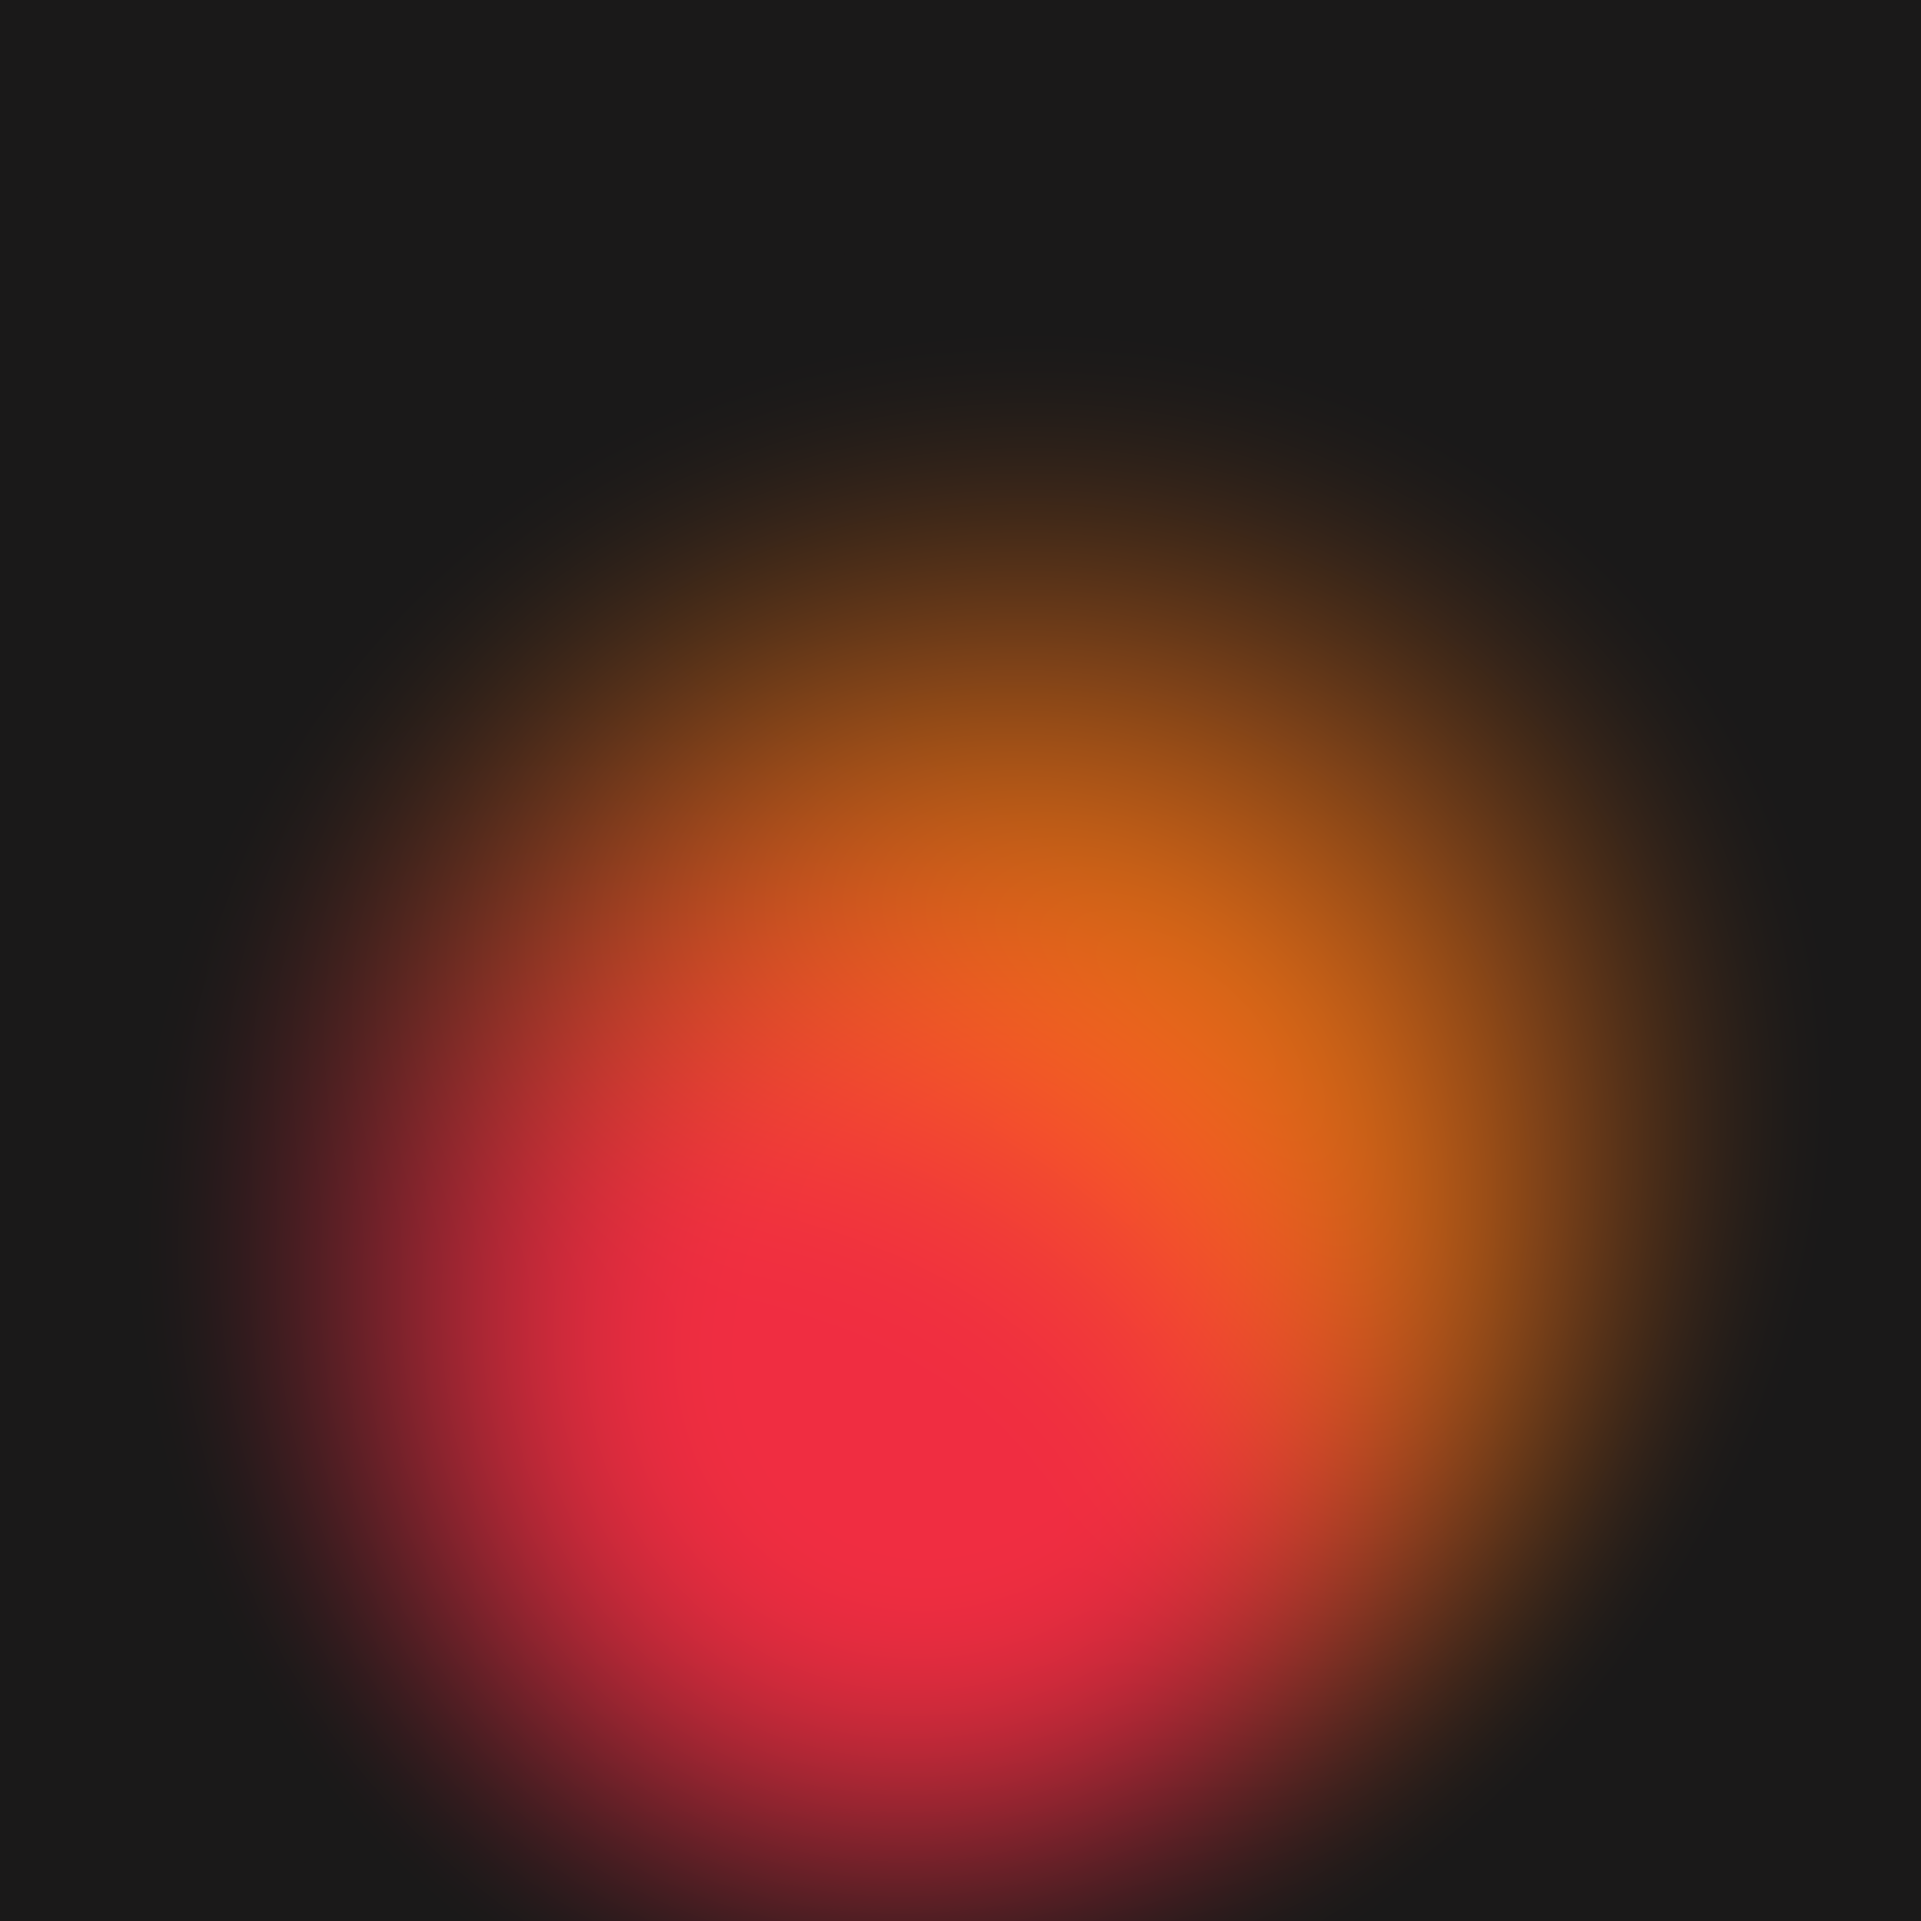
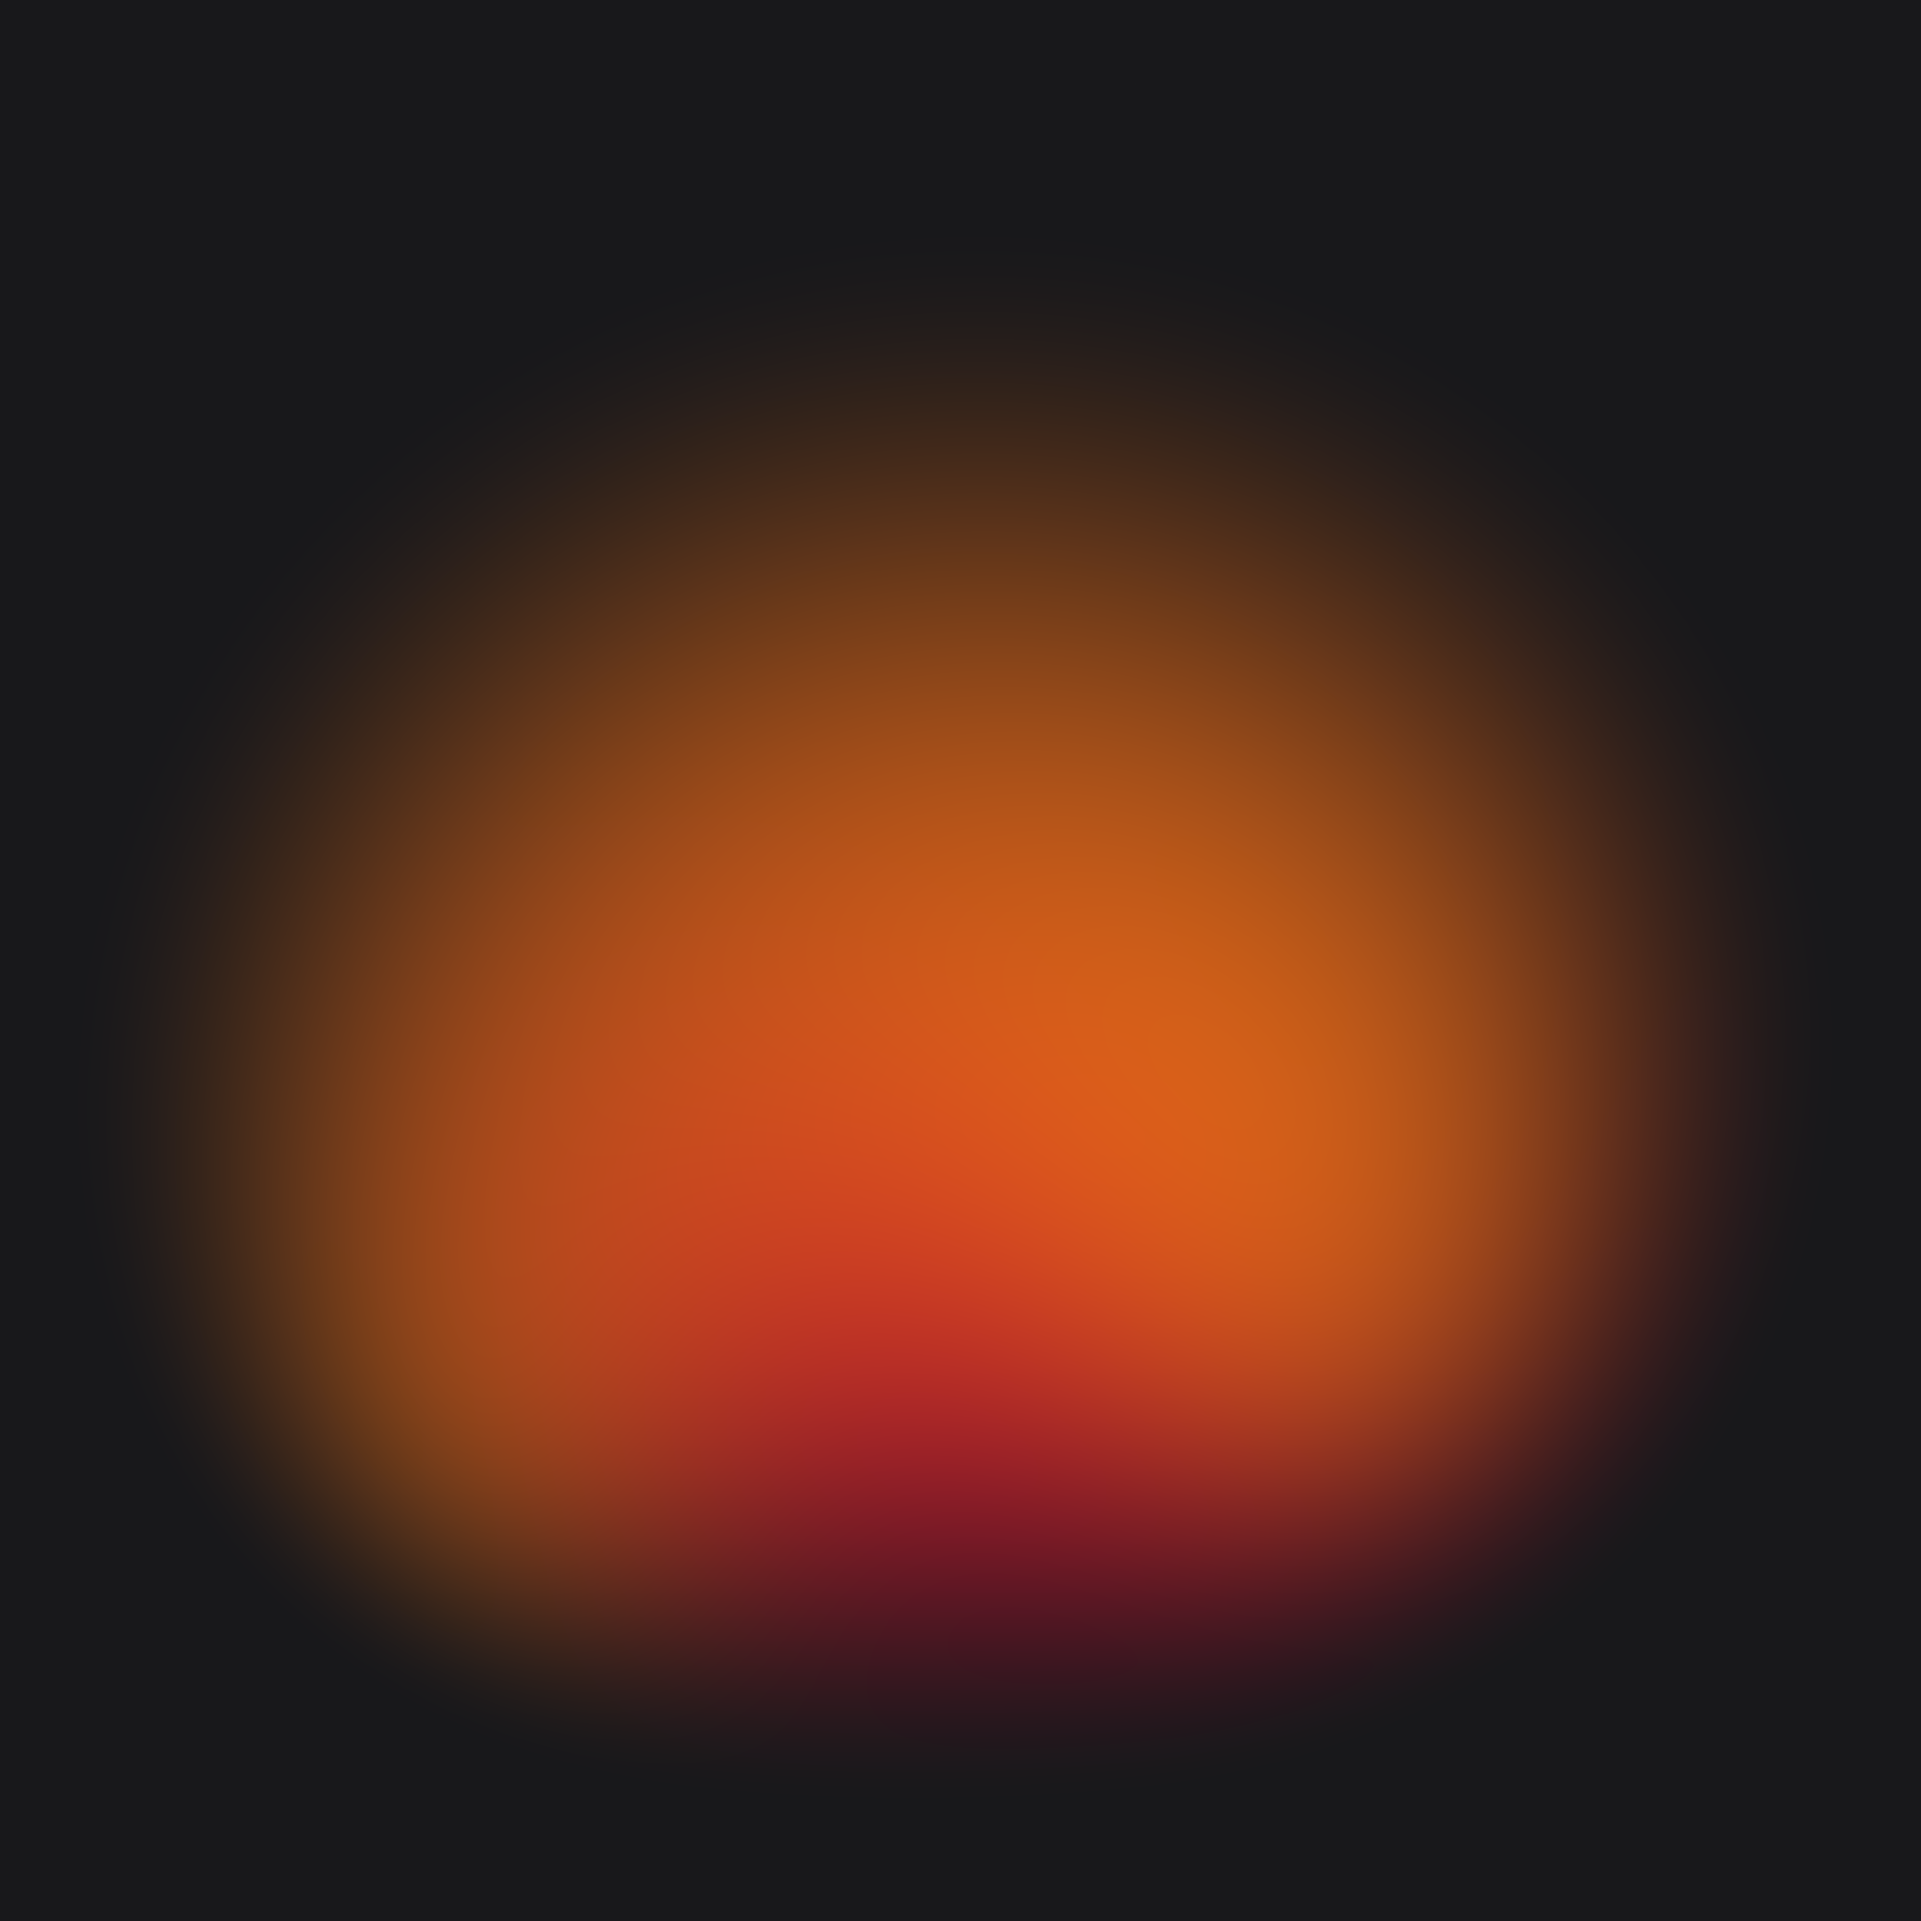
Refactor image URLs and update dark mode styling

Changed region(s): [[0.124, 0.248, 0.837, 1.0]]

diff --git a/src/components/landing/landing-layout.tsx b/src/components/landing/landing-layout.tsx
@@ -4,8 +4,10 @@ import { Black_Ops_One, Inter } from "next/font/google";
 import Image from "next/image";
 import Link from "next/link";
 import Footer from "./footer";
-import Gradient from "@/assets/images/dark-gradient.png";
+import LightGradient from "@/assets/images/light-gradient.png";
+import DarkGradient from "@/assets/images/dark-gradient.png";
 import DesktopNavBar from "../ui/landingpage/desktopnav";
+import { Tag } from "antd";
 const inter = Inter({
   weight: ["800", "600", "300"],
   subsets: ["latin-ext"],
@@ -45,10 +47,18 @@ export default function LandingLayout({
         <div
           className="absolute inset-0 bg-cover  bg-center bg-no-repeat opacity-85 "
           style={{
-            backgroundImage: `url(${Gradient.src})`,
+            backgroundImage: `url(${LightGradient.src})`,
             width: "100%",
           }}
-        />
+        >
+          <div
+            className="dark:absolute dark:inset-0  dark:bg-cover dark:bg-center dark:bg-no-repeat "
+            style={{
+              backgroundImage: `url(${DarkGradient.src})`,
+              width: "100%",
+            }}
+          />
+        </div>
 
         <MobileNav navLinks={navLinks} />
         <div className="top-0  z-10 flex w-full items-center justify-between bg-transparent px-5 pt-7 backdrop-blur-sm  lg:fixed lg:mb-20 lg:px-10">
@@ -69,6 +79,9 @@ export default function LandingLayout({
               </span>
             </div>
           </Link>
+          <Tag className="m-2 rounded-full border-orange-300 bg-gradient-to-r  from-red-500 via-orange-400 to-yellow-400 font-semibold text-white shadow-xl dark:text-zinc-900 lg:hidden  ">
+            Powered with AI
+          </Tag>
           <DesktopNavBar navLinks={navLinks} />
         </div>
         <div className={`${inter.className} pt-10 text-center   lg:pt-36`}>

diff --git a/src/pages/index.tsx b/src/pages/index.tsx
@@ -34,7 +34,7 @@ export default function Index() {
           <div className="relative">
             <Link
               href="/dashboard"
-              className="hover:purple-900 group  mt-10 hidden cursor-pointer items-center justify-center gap-2 rounded-xl border-2 border-orange-400 bg-gradient-to-r from-orange-400 to-orange-500 px-3 py-1.5 font-semibold text-white  duration-500 hover:px-10 hover:shadow-2xl   hover:shadow-orange-700 active:opacity-70 lg:mt-16  lg:inline-flex lg:px-5  lg:py-3 lg:text-xl "
+              className="hover:purple-900 group  mt-10 hidden cursor-pointer items-center justify-center gap-2 rounded-xl border-2 border-orange-400 bg-gradient-to-r from-orange-400 to-orange-500 px-3 py-1.5 font-semibold text-white  duration-500 hover:px-10 hover:shadow-2xl   hover:shadow-orange-700 active:opacity-70   lg:inline-flex lg:px-5  lg:py-3 lg:text-xl "
             >
               <span className="duration-300 group-hover:-translate-x-2 ">
                 Pruébalo gratis
@@ -55,7 +55,7 @@ export default function Index() {
             />
           </div>
 
-          <div className=" mt-10 flex flex-col overflow-hidden lg:mt-0  lg:min-h-[670px]">
+          <div className=" mt-10 flex flex-col overflow-hidden lg:-mt-20  lg:min-h-[670px]">
             <ContainerScroll />
           </div>
           <blockquote className="hidden justify-end px-10 text-right lg:flex lg:text-3xl">

diff --git a/src/pages/contacto/index.tsx b/src/pages/contacto/index.tsx
@@ -18,7 +18,7 @@ export default function Index() {
           Estaremos encantados de atenderte.
         </h4>
         <div className="flex flex-col items-start justify-center px-5 py-10 text-white  lg:flex-row lg:px-36">
-          <div className="flex flex-col items-start space-y-8    bg-gradient-to-b from-primary to-yellow-300 p-6 text-left  dark:from-orange-600 dark:to-yellow-600 lg:h-[740px] lg:w-1/3 lg:rounded-l-xl lg:p-10">
+          <div className="flex flex-col items-start space-y-8    bg-gradient-to-b from-primary to-yellow-300 p-6 text-left  dark:from-orange-600 dark:to-yellow-600 lg:h-[645px] lg:w-1/3 lg:rounded-l-xl lg:p-10">
             <h1 className="text-xl font-semibold">Ponte en contacto</h1>
 
             <div className="flex flex-col items-start  space-y-1">

diff --git a/src/components/landing/container-scroll-animation.tsx b/src/components/landing/container-scroll-animation.tsx
@@ -43,9 +43,17 @@ export const ContainerScroll = () => {
         <img
           src={ExayaHeroLight.src}
           alt="banner"
-          className="mx-auto drop-shadow-xl "
+          className="mx-auto drop-shadow-2xl "
           data-aos="fade-up"
         />
+        <div className="dark:absolute dark:inset-0">
+          <img
+            src={ExayaHeroDark.src}
+            alt="banner"
+            className="mx-auto hidden drop-shadow-xl dark:block "
+            data-aos="fade-up"
+          />
+        </div>
       </motion.div>
     </div>
   );

diff --git a/src/components/landing/footer.tsx b/src/components/landing/footer.tsx
@@ -4,7 +4,7 @@ import { BsLinkedin, BsTwitterX, BsGithub } from "react-icons/bs";
 
 export default function Footer() {
   return (
-    <footer className=" body-font bg-zinc-100 px-10 py-20 dark:bg-zinc-800 dark:text-white  lg:p-10">
+    <footer className=" body-font bg-zinc-100 px-10 py-20 dark:bg-zinc-950 dark:text-white  lg:p-10">
       <div className="container  mx-auto flex flex-col items-center sm:flex-row">
         <a className="flex items-center gap-2">
           <Image
